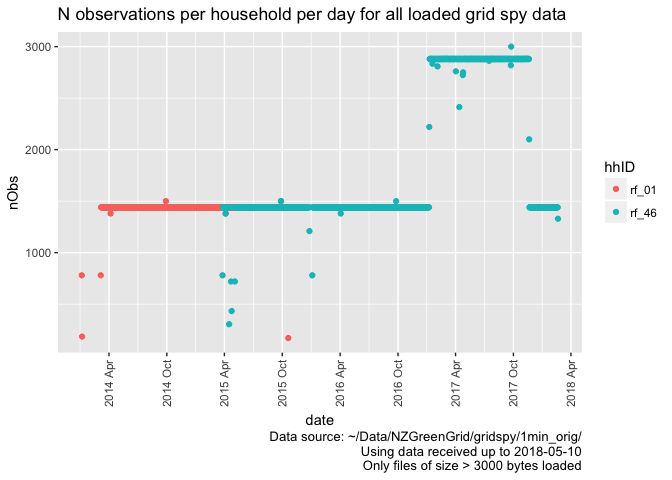
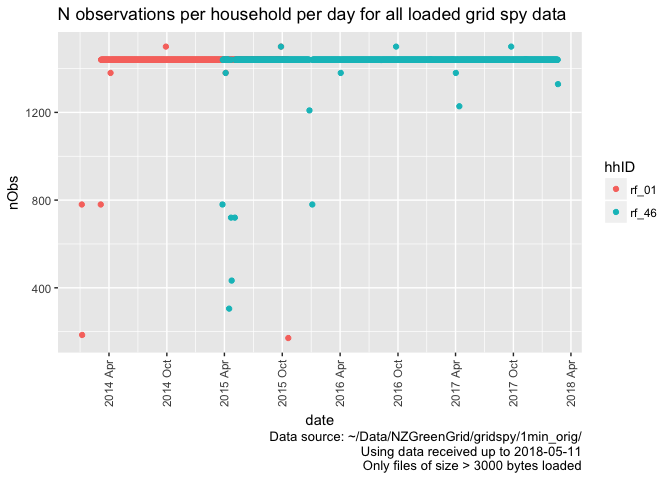
latest test run to html

diff --git a/processNZGGElecCons1minData.html b/processNZGGElecCons1minData.html
@@ -235,7 +235,7 @@ div.tocify {
 
 <h1 class="title toc-ignore">Processing, cleaning and saving NZ GREEN Grid project 1 minute electricity power data</h1>
 <h4 class="author"><em>Ben Anderson (<a href="mailto:b.anderson@soton.ac.uk">b.anderson@soton.ac.uk</a>, <code>@dataknut</code>)</em></h4>
-<h4 class="date"><em>Last run at: 2018-05-10 17:11:33</em></h4>
+<h4 class="date"><em>Last run at: 2018-05-11 16:05:33</em></h4>
 
 </div>
 
@@ -308,7 +308,7 @@ div.tocify {
 <pre class="r"><code>system.time(fListCompleteDT &lt;- data.table::as.data.table(list.files(path = fpath, pattern = pattern1Min, # use the default pattern to filter e.g. 1m from 30s files
                                             recursive = TRUE)))</code></pre>
 <pre><code>##    user  system elapsed 
-##   0.006   0.007   0.017</code></pre>
+##   0.005   0.006   0.012</code></pre>
 <pre class="r"><code>nFiles &lt;- nrow(fListCompleteDT)
 print(paste0(&quot;Found &quot;, tidyNum(nFiles), &quot; files&quot;))</code></pre>
 <pre><code>## [1] &quot;Found 958 files&quot;</code></pre>
@@ -830,11 +830,11 @@ fListCompleteDT &lt;- fListCompleteDT[, fileLoaded := &quot;No&quot;] # set defa
 hhIDs &lt;- unique(filesToLoadDT$hhID) # list of household ids
 hhStatDT &lt;- data.table::data.table() # stats collector
 
-for(hh in hhIDs){
+for(hh in hhIDs){ #&gt;&gt; start of household loop ----
   tempHhDT &lt;- data.table::data.table() # hh data collector
   print(paste0(&quot;Loading: &quot;, hh))
   filesToLoad &lt;- filesToLoadDT[hhID == hh, fullPath]
-  for(f in filesToLoad){
+  for(f in filesToLoad){ # &gt;&gt; start of per-file loop ----
     if(fullFb){print(paste0(&quot;File size (&quot;, f, &quot;) = &quot;, 
                             filesToLoadDT[fullPath == f, fSize], 
                             &quot; so probably OK&quot;))} # files under 3kb are probably empty
@@ -855,7 +855,8 @@ for(hh in hhIDs){
         tempDT &lt;- tempDT[, dateColName := &quot;date UTC&quot;]
       }
       
-      # Now use the pre-inferred dateFormat
+    # &gt; Fix dates ----
+    # Using the pre-inferred dateFormat
       tempDT &lt;- tempDT[, dateFormat := filesToLoadDT[fullPath == f, dateFormat]]
       tempDT &lt;- tempDT[dateFormat %like% &quot;mdy&quot; &amp; dateColName %like% &quot;NZ&quot;, r_dateTime := lubridate::mdy_hm(dateTime_char, tz = &quot;Pacific/Auckland&quot;)] # requires lubridate
       tempDT &lt;- tempDT[dateFormat %like% &quot;dmy&quot; &amp; dateColName %like% &quot;NZ&quot;, r_dateTime := lubridate::dmy_hm(dateTime_char, tz = &quot;Pacific/Auckland&quot;)] # requires lubridate
@@ -879,6 +880,53 @@ for(hh in hhIDs){
     fListCompleteDT &lt;- fListCompleteDT[fullPath == f, nCircuits := ncol(dplyr::select(tempDT, 
                                                                                       dplyr::contains(&quot;$&quot;)))] # check for the number of circuits - all seem to contain &quot;$&quot;
     #tempDT &lt;- tempDT[, sourceFile := f] # record for later checks - breaks de-duplication code
+    
+    # &gt; Fix circuit labels where we have noticed errors ----
+    # rf_24 has an additional circuit in some files but value is always NA
+    # rf_46 has 3 different versions of the circuit labels:
+    # 1: Heat Pumps (2x) &amp; Power$4232, Heat Pumps (2x) &amp; Power$4399, Hot Water - Controlled$4231, Hot Water - Controlled$4400, Incomer - Uncontrolled$4230, Incomer - Uncontrolled$4401, Incomer Voltage$4405, Kitchen &amp; Bedrooms$4229, Kitchen &amp; Bedrooms$4402, Laundry &amp; Bedrooms$4228, Laundry &amp; Bedrooms$4403, Lighting$4233, Lighting$4404
+    # 2: Heat Pumps (2x) &amp; Power1$4232, Heat Pumps (2x) &amp; Power2$4399, Hot Water - Controlled1$4231, Hot Water - Controlled2$4400, Incomer - Uncontrolled1$4230, Incomer - Uncontrolled2$4401, Incomer Voltage$4405, Kitchen &amp; Bedrooms1$4229, Kitchen &amp; Bedrooms2$4402, Laundry &amp; Bedrooms1$4228, Laundry &amp; Bedrooms2$4403, Lighting1$4233, Lighting2$4404
+    # 3: Heat Pumps (2x) &amp; Power_Imag$4399, Heat Pumps (2x) &amp; Power$4232, Hot Water - Controlled_Imag$4400, Hot Water - Controlled$4231, Incomer - Uncontrolled_Imag$4401, Incomer - Uncontrolled$4230, Incomer Voltage$4405, Kitchen &amp; Bedrooms_Imag$4402, Kitchen &amp; Bedrooms$4229, Laundry &amp; Bedrooms_Imag$4403, Laundry &amp; Bedrooms$4228, Lighting_Imag$4404, Lighting$4233
+    # Fix to just the first (might also fix duplication of observations)
+    if(hh == &quot;rf_46&quot;){
+      if(fullFb){print(&quot;Checking circuit labels for rf_46&quot;)}
+      # check if we have the second form of labels - they have &#39;Power1$4232&#39; in one col label
+      checkCols2 &lt;- ncol(dplyr::select(tempDT,dplyr::contains(&quot;Power1$4232&quot;)))
+      if(checkCols2 == 1){
+        # we got label set 2
+        if(fullFb){print(paste0(&quot;Found circuit labels set 2 in &quot;, f))}
+        setnames(tempDT, c(&quot;Heat Pumps (2x) &amp; Power1$4232&quot;, &quot;Heat Pumps (2x) &amp; Power2$4399&quot;, 
+                           &quot;Hot Water - Controlled1$4231&quot;, &quot;Hot Water - Controlled2$4400&quot;, 
+                           &quot;Incomer - Uncontrolled1$4230&quot;, &quot;Incomer - Uncontrolled2$4401&quot;, 
+                           &quot;Incomer Voltage$4405&quot;, &quot;Kitchen &amp; Bedrooms1$4229&quot;, 
+                           &quot;Kitchen &amp; Bedrooms2$4402&quot;,&quot;Laundry &amp; Bedrooms1$4228&quot;, 
+                           &quot;Laundry &amp; Bedrooms2$4403&quot;, &quot;Lighting1$4233&quot;, &quot;Lighting2$4404&quot;), 
+                 c(&quot;Heat Pumps (2x) &amp; Power$4232&quot;, &quot;Heat Pumps (2x) &amp; Power$4399&quot;, &quot;Hot Water - Controlled$4231&quot;,
+                   &quot;Hot Water - Controlled$4400&quot;, &quot;Incomer - Uncontrolled$4230&quot;, &quot;Incomer - Uncontrolled$4401&quot;,
+                   &quot;Incomer Voltage$4405&quot;, &quot;Kitchen &amp; Bedrooms$4229&quot;, &quot;Kitchen &amp; Bedrooms$4402&quot;, 
+                   &quot;Laundry &amp; Bedrooms$4228&quot;, &quot;Laundry &amp; Bedrooms$4403&quot;, &quot;Lighting$4233&quot;, &quot;Lighting$4404&quot;))
+      }
+      # check if we have the third form of labels - they have &#39;Power_Imag$4399&#39; in one col label
+      checkCols3 &lt;- ncol(dplyr::select(tempDT,dplyr::contains(&quot;Power_Imag$4399&quot;)))
+      if(checkCols3 == 1){
+        # we got label set 3
+        if(fullFb){print(paste0(&quot;Found circuit labels set 3 in &quot;, f))}
+        # be careful to get this order correct so that it matches the label 1 order
+        setnames(tempDT, c(&quot;Heat Pumps (2x) &amp; Power$4232&quot;, &quot;Heat Pumps (2x) &amp; Power_Imag$4399&quot;,
+                           &quot;Hot Water - Controlled$4231&quot;, &quot;Hot Water - Controlled_Imag$4400&quot;, 
+                           &quot;Incomer - Uncontrolled$4230&quot;, &quot;Incomer - Uncontrolled_Imag$4401&quot;, &quot;Incomer Voltage$4405&quot;,
+                           &quot;Kitchen &amp; Bedrooms$4229&quot;, &quot;Kitchen &amp; Bedrooms_Imag$4402&quot;, 
+                           &quot;Laundry &amp; Bedrooms$4228&quot;, &quot;Laundry &amp; Bedrooms_Imag$4403&quot;, 
+                           &quot;Lighting$4233&quot;, &quot;Lighting_Imag$4404&quot;), 
+                 c(&quot;Heat Pumps (2x) &amp; Power$4232&quot;, &quot;Heat Pumps (2x) &amp; Power$4399&quot;, 
+                   &quot;Hot Water - Controlled$4231&quot;, &quot;Hot Water - Controlled$4400&quot;, 
+                   &quot;Incomer - Uncontrolled$4230&quot;, &quot;Incomer - Uncontrolled$4401&quot;, &quot;Incomer Voltage$4405&quot;, 
+                   &quot;Kitchen &amp; Bedrooms$4229&quot;, &quot;Kitchen &amp; Bedrooms$4402&quot;, 
+                   &quot;Laundry &amp; Bedrooms$4228&quot;, &quot;Laundry &amp; Bedrooms$4403&quot;,
+                   &quot;Lighting$4233&quot;, &quot;Lighting$4404&quot;))
+      }
+    }
+    
     # rbind to hh data collector
     tempHhDT &lt;- rbind(tempHhDT, tempDT, fill = TRUE) # fill just in case there are different numbers of columns or columns with different names (quite likely - crcuit labels may vary!)
   }
@@ -905,7 +953,8 @@ for(hh in hhIDs){
   hhStatDT &lt;- rbind(hhStatDT,hhStatTempDT) # add to the collector
   
   # &gt; Save hh file ----
-  
+  # add hhid for ease of future loading etc
+  tempHhDT &lt;- tempHhDT[, hhID := hh]
   ofile &lt;- paste0(outPath, &quot;data/&quot;, hh,&quot;_all_1min_data.csv&quot;)
   print(paste0(&quot;Saving &quot;, ofile, &quot;...&quot;))
   write_csv(tempHhDT, ofile)
@@ -1074,6 +1123,10 @@ ggplot2::ggplot(t, aes(y = hhID, x = circuitLabels, fill = nObs)) +
 </tr>
 </tbody>
 </table>
+<p>Things to note:</p>
+<ul>
+<li>rf_25 has an aditional unexpected “Incomer 1 - Uncontrolled$2757” circuit in some files but it’s value is always NA</li>
+</ul>
 </div>
 <div id="observations" class="section level2">
 <h2><span class="header-section-number">5.2</span> Observations</h2>
@@ -1161,7 +1214,7 @@ knitr::kable(caption = &quot;Summary observation stats by hhID&quot;, t)</code><
 <tr class="even">
 <td align="left">rf_46</td>
 <td align="right">305</td>
-<td align="right">3000</td>
+<td align="right">1500</td>
 <td align="right">13</td>
 <td align="left">2015-03-26</td>
 <td align="left">2018-02-19</td>
@@ -1191,7 +1244,7 @@ ggplot2::ggplot(plotDT, aes( x = date, y = nHH)) +
 <pre class="r"><code>t &lt;- proc.time() - startTime
 
 elapsed &lt;- t[[3]]</code></pre>
-<p>Analysis completed in 391.077 seconds ( 6.52 minutes) using <a href="https://cran.r-project.org/package=knitr">knitr</a> in <a href="http://www.rstudio.com">RStudio</a> with R version 3.4.4 (2018-03-15) running on x86_64-apple-darwin15.6.0.</p>
+<p>Analysis completed in 259.762 seconds ( 4.33 minutes) using <a href="https://cran.r-project.org/package=knitr">knitr</a> in <a href="http://www.rstudio.com">RStudio</a> with R version 3.4.4 (2018-03-15) running on x86_64-apple-darwin15.6.0.</p>
 </div>
 <div id="r-environment" class="section level1">
 <h1><span class="header-section-number">7</span> R environment</h1>

diff --git a/processNZGGElecCons1minData.md b/processNZGGElecCons1minData.md
@@ -2,7 +2,7 @@
 title: 'Processing, cleaning and saving NZ GREEN Grid project 1 minute electricity
   power data'
 author: 'Ben Anderson (b.anderson@soton.ac.uk, `@dataknut`)'
-date: 'Last run at: 2018-05-10 17:11:33'
+date: 'Last run at: 2018-05-11 16:05:33'
 output:
   html_document:
     code_folding: hide
@@ -105,7 +105,7 @@ system.time(fListCompleteDT <- data.table::as.data.table(list.files(path = fpath
 
 ```
 ##    user  system elapsed 
-##   0.006   0.007   0.017
+##   0.005   0.006   0.012
 ```
 
 ```r
@@ -485,11 +485,11 @@ fListCompleteDT <- fListCompleteDT[, fileLoaded := "No"] # set default
 hhIDs <- unique(filesToLoadDT$hhID) # list of household ids
 hhStatDT <- data.table::data.table() # stats collector
 
-for(hh in hhIDs){
+for(hh in hhIDs){ #>> start of household loop ----
   tempHhDT <- data.table::data.table() # hh data collector
   print(paste0("Loading: ", hh))
   filesToLoad <- filesToLoadDT[hhID == hh, fullPath]
-  for(f in filesToLoad){
+  for(f in filesToLoad){ # >> start of per-file loop ----
     if(fullFb){print(paste0("File size (", f, ") = ", 
                             filesToLoadDT[fullPath == f, fSize], 
                             " so probably OK"))} # files under 3kb are probably empty
@@ -510,7 +510,8 @@ for(hh in hhIDs){
         tempDT <- tempDT[, dateColName := "date UTC"]
       }
       
-      # Now use the pre-inferred dateFormat
+    # > Fix dates ----
+    # Using the pre-inferred dateFormat
       tempDT <- tempDT[, dateFormat := filesToLoadDT[fullPath == f, dateFormat]]
       tempDT <- tempDT[dateFormat %like% "mdy" & dateColName %like% "NZ", r_dateTime := lubridate::mdy_hm(dateTime_char, tz = "Pacific/Auckland")] # requires lubridate
       tempDT <- tempDT[dateFormat %like% "dmy" & dateColName %like% "NZ", r_dateTime := lubridate::dmy_hm(dateTime_char, tz = "Pacific/Auckland")] # requires lubridate
@@ -534,6 +535,53 @@ for(hh in hhIDs){
     fListCompleteDT <- fListCompleteDT[fullPath == f, nCircuits := ncol(dplyr::select(tempDT, 
                                                                                       dplyr::contains("$")))] # check for the number of circuits - all seem to contain "$"
     #tempDT <- tempDT[, sourceFile := f] # record for later checks - breaks de-duplication code
+    
+    # > Fix circuit labels where we have noticed errors ----
+    # rf_24 has an additional circuit in some files but value is always NA
+    # rf_46 has 3 different versions of the circuit labels:
+    # 1: Heat Pumps (2x) & Power$4232, Heat Pumps (2x) & Power$4399, Hot Water - Controlled$4231, Hot Water - Controlled$4400, Incomer - Uncontrolled$4230, Incomer - Uncontrolled$4401, Incomer Voltage$4405, Kitchen & Bedrooms$4229, Kitchen & Bedrooms$4402, Laundry & Bedrooms$4228, Laundry & Bedrooms$4403, Lighting$4233, Lighting$4404
+    # 2: Heat Pumps (2x) & Power1$4232, Heat Pumps (2x) & Power2$4399, Hot Water - Controlled1$4231, Hot Water - Controlled2$4400, Incomer - Uncontrolled1$4230, Incomer - Uncontrolled2$4401, Incomer Voltage$4405, Kitchen & Bedrooms1$4229, Kitchen & Bedrooms2$4402, Laundry & Bedrooms1$4228, Laundry & Bedrooms2$4403, Lighting1$4233, Lighting2$4404
+    # 3: Heat Pumps (2x) & Power_Imag$4399, Heat Pumps (2x) & Power$4232, Hot Water - Controlled_Imag$4400, Hot Water - Controlled$4231, Incomer - Uncontrolled_Imag$4401, Incomer - Uncontrolled$4230, Incomer Voltage$4405, Kitchen & Bedrooms_Imag$4402, Kitchen & Bedrooms$4229, Laundry & Bedrooms_Imag$4403, Laundry & Bedrooms$4228, Lighting_Imag$4404, Lighting$4233
+    # Fix to just the first (might also fix duplication of observations)
+    if(hh == "rf_46"){
+      if(fullFb){print("Checking circuit labels for rf_46")}
+      # check if we have the second form of labels - they have 'Power1$4232' in one col label
+      checkCols2 <- ncol(dplyr::select(tempDT,dplyr::contains("Power1$4232")))
+      if(checkCols2 == 1){
+        # we got label set 2
+        if(fullFb){print(paste0("Found circuit labels set 2 in ", f))}
+        setnames(tempDT, c("Heat Pumps (2x) & Power1$4232", "Heat Pumps (2x) & Power2$4399", 
+                           "Hot Water - Controlled1$4231", "Hot Water - Controlled2$4400", 
+                           "Incomer - Uncontrolled1$4230", "Incomer - Uncontrolled2$4401", 
+                           "Incomer Voltage$4405", "Kitchen & Bedrooms1$4229", 
+                           "Kitchen & Bedrooms2$4402","Laundry & Bedrooms1$4228", 
+                           "Laundry & Bedrooms2$4403", "Lighting1$4233", "Lighting2$4404"), 
+                 c("Heat Pumps (2x) & Power$4232", "Heat Pumps (2x) & Power$4399", "Hot Water - Controlled$4231",
+                   "Hot Water - Controlled$4400", "Incomer - Uncontrolled$4230", "Incomer - Uncontrolled$4401",
+                   "Incomer Voltage$4405", "Kitchen & Bedrooms$4229", "Kitchen & Bedrooms$4402", 
+                   "Laundry & Bedrooms$4228", "Laundry & Bedrooms$4403", "Lighting$4233", "Lighting$4404"))
+      }
+      # check if we have the third form of labels - they have 'Power_Imag$4399' in one col label
+      checkCols3 <- ncol(dplyr::select(tempDT,dplyr::contains("Power_Imag$4399")))
+      if(checkCols3 == 1){
+        # we got label set 3
+        if(fullFb){print(paste0("Found circuit labels set 3 in ", f))}
+        # be careful to get this order correct so that it matches the label 1 order
+        setnames(tempDT, c("Heat Pumps (2x) & Power$4232", "Heat Pumps (2x) & Power_Imag$4399",
+                           "Hot Water - Controlled$4231", "Hot Water - Controlled_Imag$4400", 
+                           "Incomer - Uncontrolled$4230", "Incomer - Uncontrolled_Imag$4401", "Incomer Voltage$4405",
+                           "Kitchen & Bedrooms$4229", "Kitchen & Bedrooms_Imag$4402", 
+                           "Laundry & Bedrooms$4228", "Laundry & Bedrooms_Imag$4403", 
+                           "Lighting$4233", "Lighting_Imag$4404"), 
+                 c("Heat Pumps (2x) & Power$4232", "Heat Pumps (2x) & Power$4399", 
+                   "Hot Water - Controlled$4231", "Hot Water - Controlled$4400", 
+                   "Incomer - Uncontrolled$4230", "Incomer - Uncontrolled$4401", "Incomer Voltage$4405", 
+                   "Kitchen & Bedrooms$4229", "Kitchen & Bedrooms$4402", 
+                   "Laundry & Bedrooms$4228", "Laundry & Bedrooms$4403",
+                   "Lighting$4233", "Lighting$4404"))
+      }
+    }
+    
     # rbind to hh data collector
     tempHhDT <- rbind(tempHhDT, tempDT, fill = TRUE) # fill just in case there are different numbers of columns or columns with different names (quite likely - crcuit labels may vary!)
   }
@@ -560,7 +608,8 @@ for(hh in hhIDs){
   hhStatDT <- rbind(hhStatDT,hhStatTempDT) # add to the collector
   
   # > Save hh file ----
-  
+  # add hhid for ease of future loading etc
+  tempHhDT <- tempHhDT[, hhID := hh]
   ofile <- paste0(outPath, "data/", hh,"_all_1min_data.csv")
   print(paste0("Saving ", ofile, "..."))
   write_csv(tempHhDT, ofile)
@@ -716,6 +765,10 @@ Heat Pumps (2x) & Power1$4232, Heat Pumps (2x) & Power2$4399, Hot Water - Contro
 Heat Pumps (2x) & Power_Imag$4399, Heat Pumps (2x) & Power$4232, Hot Water - Controlled_Imag$4400, Hot Water - Controlled$4231, Incomer - Uncontrolled_Imag$4401, Incomer - Uncontrolled$4230, Incomer Voltage$4405, Kitchen & Bedrooms_Imag$4402, Kitchen & Bedrooms$4229, Laundry & Bedrooms_Imag$4403, Laundry & Bedrooms$4228, Lighting_Imag$4404, Lighting$4233   rf_46         2  2015-03-26   2016-10-11   2016-09-29    2016-10-25      261377
 Heating$1633, Hot water$1636, Kitchen power$1632, Lights$1635, Mains$1634, Range$1637                                                                                                                                                                                                                                                                                  rf_01         3  2014-01-05   2015-10-20   2016-09-20    2016-09-30      855836
 
+Things to note:
+
+ * rf_25 has an aditional unexpected "Incomer 1 - Uncontrolled$2757" circuit in some files but it's value is always NA
+ 
 ## Observations
 
 The following plots show the number of observations per day per household. In theory we should not see:
@@ -809,7 +862,7 @@ Table: Summary observation stats by hhID
 hhID     minObs   maxObs   meanNDataColumns  minDate      maxDate    
 ------  -------  -------  -----------------  -----------  -----------
 rf_01       171     1500                  6  2014-01-05   2015-10-20 
-rf_46       305     3000                 13  2015-03-26   2018-02-19 
+rf_46       305     1500                 13  2015-03-26   2018-02-19 
 
 
 Finally we show the total number of households which we think are still sending data.
@@ -850,7 +903,7 @@ t <- proc.time() - startTime
 elapsed <- t[[3]]
 ```
 
-Analysis completed in 391.077 seconds ( 6.52 minutes) using [knitr](https://cran.r-project.org/package=knitr) in [RStudio](http://www.rstudio.com) with R version 3.4.4 (2018-03-15) running on x86_64-apple-darwin15.6.0.
+Analysis completed in 259.762 seconds ( 4.33 minutes) using [knitr](https://cran.r-project.org/package=knitr) in [RStudio](http://www.rstudio.com) with R version 3.4.4 (2018-03-15) running on x86_64-apple-darwin15.6.0.
 
 # R environment
 
